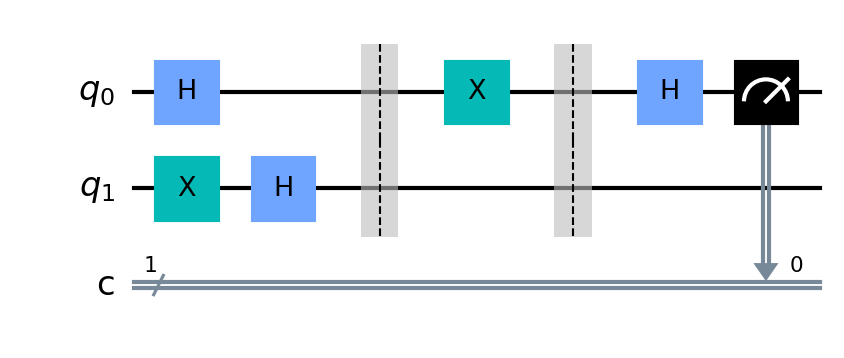
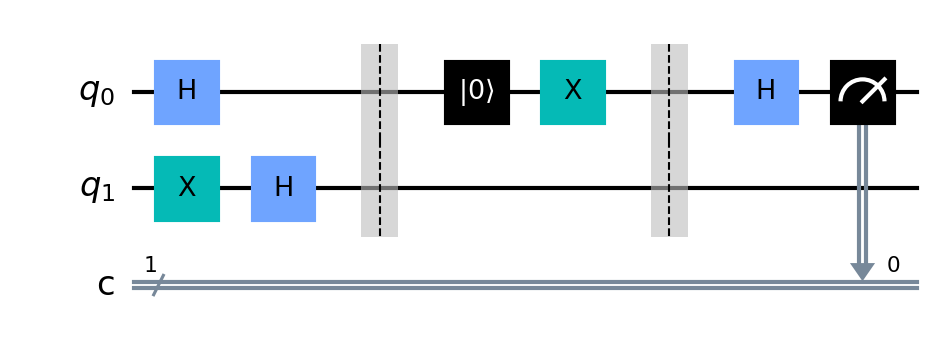
Implementing on actual Quantum Computer

Changed region(s): [[0.0616, 0.1229, 0.955, 0.7989], [0.0616, 0.1536, 0.2773, 0.3687], [0.0924, 0.7067, 0.1848, 0.8296]]

diff --git a/main.py b/main.py
@@ -2,11 +2,18 @@ import qiskit
 import matplotlib.pyplot as plt
 from qiskit.visualization import plot_histogram
 
-# Deutsch algorithm for a single qubit
+# for running it on IBM's computers
+from qiskit import IBMQ, Aer
+from qiskit.providers.ibmq import least_busy
+from qiskit.tools.monitor import job_monitor
+from qiskit import assemble, transpile
+
+# Deutsch's algorithm for a single qubit
 # Takes in an Oracle (QuantumCircuit) with 2 qubits
 import example_oracles
 
-
+# Deutsch's algorithm as defined in the lecture slides, Weeks 5-6
+# Takes in an oracle quantum circuit and outputs a Deutsch's Algorithm circuit
 def deutsch(oracle):
     program = qiskit.QuantumCircuit(2, 1)  # 2 qubits, 1 bit
 
@@ -17,7 +24,8 @@ def deutsch(oracle):
     program.h(0)
     program.h(1)
 
-    program.barrier() # Making it look better, idea from https://qiskit.org/textbook/ch-algorithms/deutsch-jozsa.html
+    # Making it look better, idea from https://qiskit.org/textbook/ch-algorithms/deutsch-jozsa.html
+    program.barrier()
 
     # Step 3, Apply Oracle function
     program.compose(oracle, inplace=True)
@@ -29,7 +37,7 @@ def deutsch(oracle):
     program.measure(0, 0)
     return program
 
-# Deutsch algorithm for n qubits
+# Deutsch_Jozsa's algorithm for n qubits
 # Takes in an Oracle (QuantumCircuit) with n+1 qubits, and the integer n
 def deutsch_jozsa(oracle, n):
     program = qiskit.QuantumCircuit(n+1, n)  # n+1 qubits, n bits
@@ -54,6 +62,26 @@ def deutsch_jozsa(oracle, n):
     return program
 
 
+# Code snipit from Qiskit tutorial: https://qiskit.org/textbook/ch-algorithms/deutsch-jozsa.html
+# It finds a backend that has enough qubits, is not a simulator, and is operational
+# It then transpiles the circuit, optimizes it, runs it, monitors the job, and receives the results
+def run_on_IBM(circuit, n):
+    # IBMQ.save_account("TOKEN")
+    IBMQ.load_account()
+    provider = IBMQ.get_provider(hub='ibm-q')
+    backend = least_busy(provider.backends(filters=lambda x: x.configuration().n_qubits >= (n+1) and
+                                        not x.configuration().simulator and x.status().operational==True))
+    print("least busy backend: ", backend)
+
+    transpiled_dj_circuit = transpile(circuit, backend, optimization_level=3)
+    job = backend.run(transpiled_dj_circuit)
+    job_monitor(job, interval=2)
+
+    results = job.result()
+    answer = results.get_counts()
+
+    plot_histogram(answer, filename='IBM_Imgs/histogram')
+
 print("Running Deutsch Examples")
 for example in example_oracles.deutsch_examples:
     oracle = example()
@@ -75,3 +103,9 @@ for example in example_oracles.deutsch_jozsa_examples:
     plot_histogram(result.get_counts(), filename='Deutsch_Jozsa_Imgs/'+example.__name__+'_histogram')
 
 
+print("Running it on IBM")
+# Try it on real Q-computer:
+oracle, n = example_oracles.jozsa_example_one()
+circuit = deutsch_jozsa(oracle, n)
+circuit.draw(output="mpl", filename='IBM_Imgs/oracle1')
+run_on_IBM(circuit, n)

diff --git a/example_oracles.py b/example_oracles.py
@@ -17,6 +17,12 @@ def example_three():
 
 def example_four():
     oracle = qiskit.QuantumCircuit(2)
+    oracle.reset(0)
+    oracle.x(0)
+    return oracle
+
+def example_five():
+    oracle = qiskit.QuantumCircuit(2)
     oracle.x(0)
     return oracle
 
@@ -29,7 +35,7 @@ def jozsa_example_one():
     return oracle, 3
 
 # these return an oracle using 2 qubits
-deutsch_examples = [example_one, example_two, example_three, example_four]
+deutsch_examples = [example_one, example_two, example_three, example_four, example_five]
 
 # these return an oracle using n qubits, as well as the integer n
 deutsch_jozsa_examples = [jozsa_example_one]
